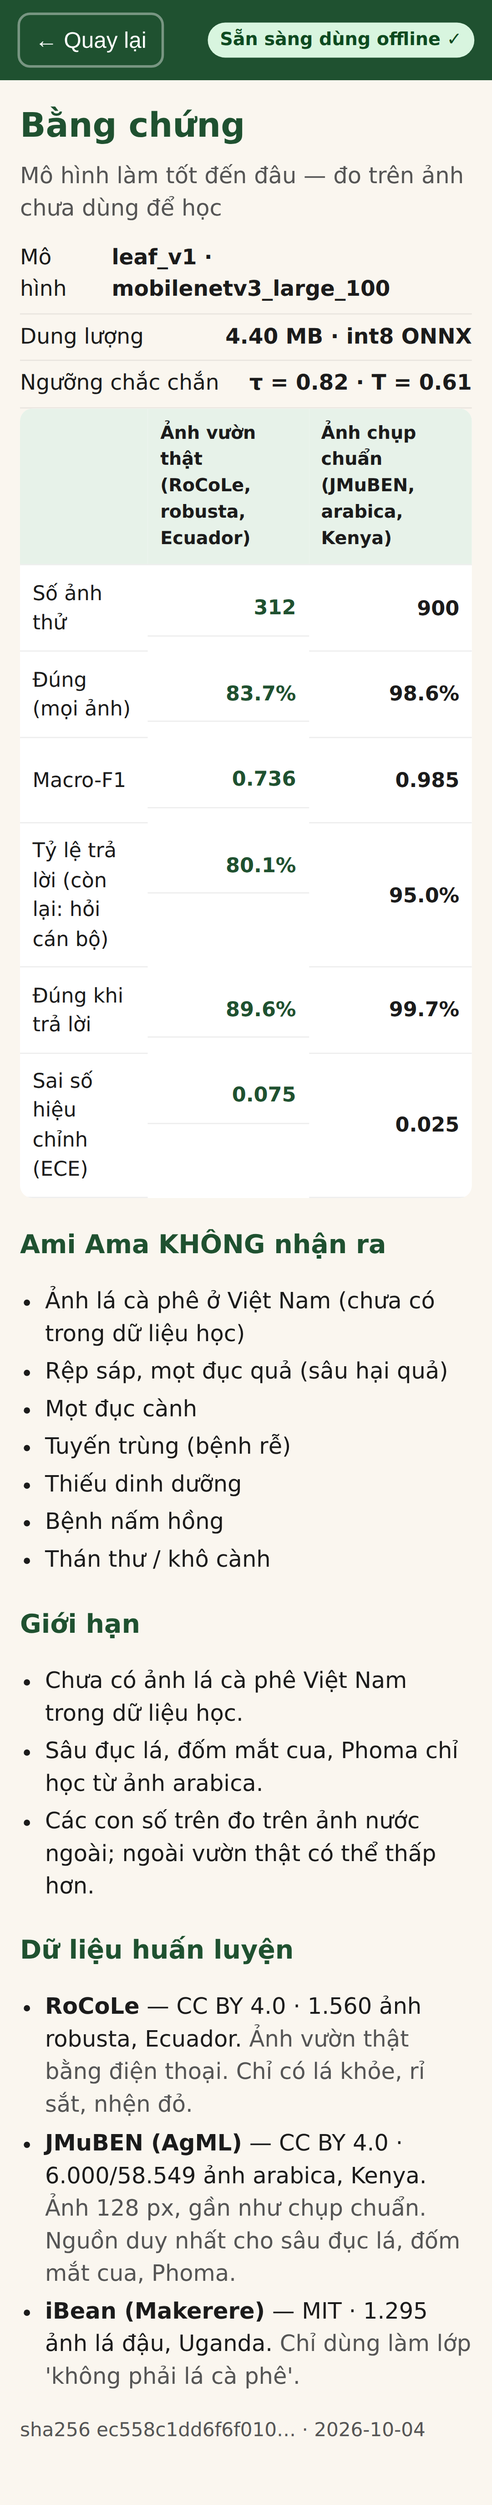
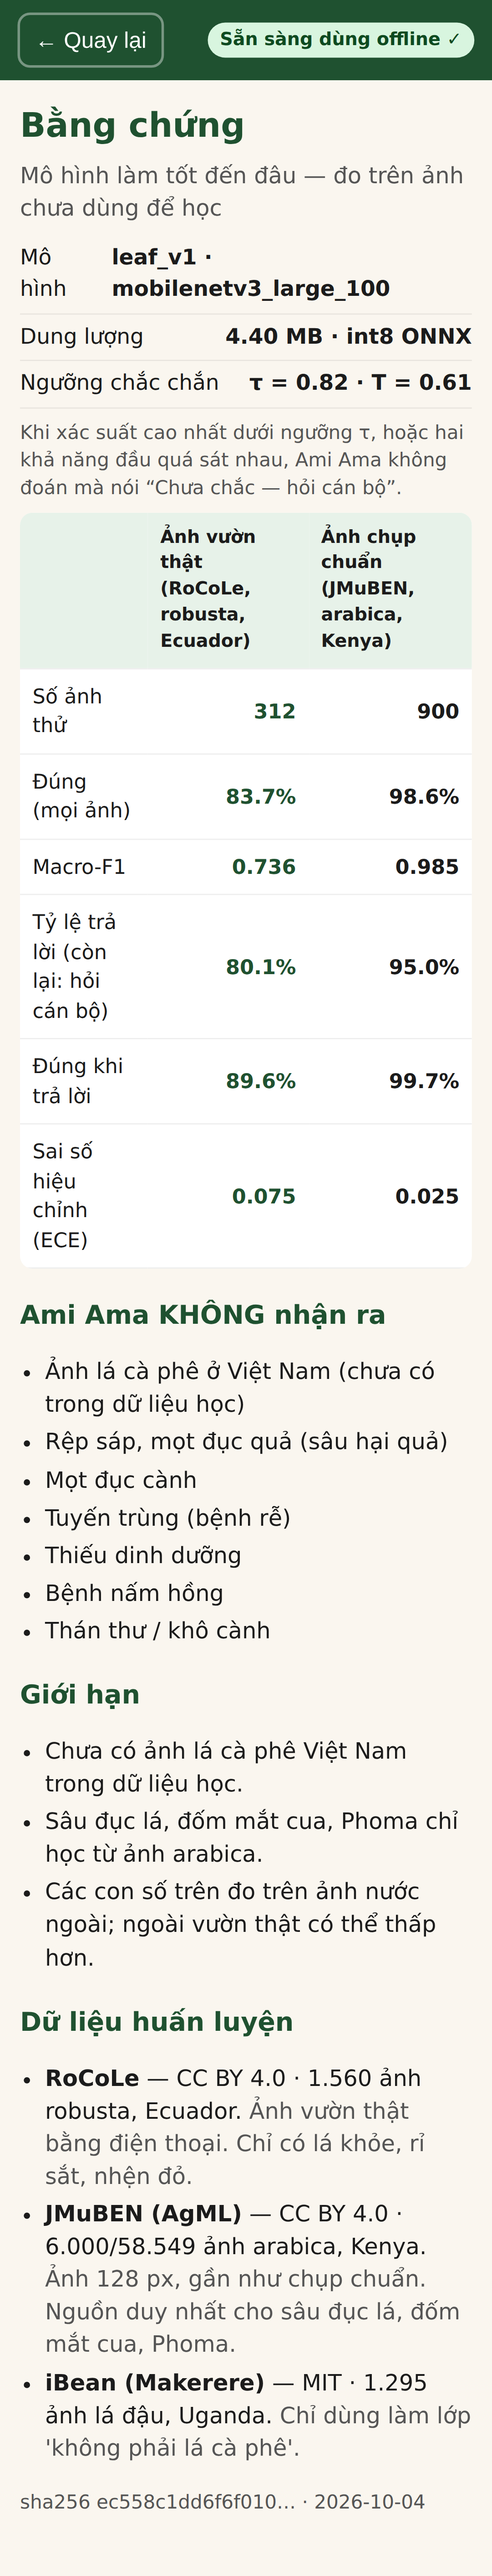
M6: Evidence table alignment + abstain-rule line, README screenshot strip, verified per-epoch resume (clear error on schedule mismatch)
Claude-Session: https://claude.ai/code/session_01WtXdzrNTSQJShH6jfLbNAi

diff --git a/src/screens/Evidence.tsx b/src/screens/Evidence.tsx
@@ -39,6 +39,7 @@ export default function Evidence() {
         <div><span>{t('ev_size')}</span><b>{(card.size_bytes / 1e6).toFixed(2)} MB · int8 ONNX</b></div>
         <div><span>{t('ev_tau')}</span><b>τ = {card.tau.toFixed(2)} · T = {card.temperature.toFixed(2)}</b></div>
       </div>
+      <p className="muted small">{t('ev_rule')}</p>
       <table className="mtable" data-testid="metrics">
         <thead>
           <tr>
@@ -51,7 +52,7 @@ export default function Evidence() {
           {rows.map(([k, fn]) => (
             <tr key={k}>
               <td>{t(k)}</td>
-              <td className="num field">{fn(f)}</td>
+              <td className="num fieldcol">{fn(f)}</td>
               <td className="num">{fn(s)}</td>
             </tr>
           ))}

diff --git a/src/styles.css b/src/styles.css
@@ -119,7 +119,7 @@ summary { cursor: pointer; min-height: 32px; font-weight: 600; }
 .mtable th { font-size: 0.8rem; background: var(--leaf); }
 .mtable td { font-size: 0.9rem; }
 .num { text-align: right !important; font-variant-numeric: tabular-nums; font-weight: 600; }
-.mtable .field { color: var(--green); }
+.mtable .fieldcol { color: var(--green); }
 .diff { font-size: 1.15rem; font-weight: 700; padding: 10px; border-radius: 10px; }
 .diff.lower { background: var(--warn-bg); color: var(--warn); }
 .diff.higher { background: #d8f5df; color: #0d4a20; }

diff --git a/ml/train.py b/ml/train.py
@@ -160,6 +160,8 @@ def main():
     log, best, bad, t0, start = [], -1.0, 0, time.time(), 0
     if a.resume and (CKPT / "last.pt").exists():
         st = torch.load(CKPT / "last.pt", map_location=DEV, weights_only=False)
+        if st["scheduler"]["total_steps"] != steps:
+            raise SystemExit("--resume needs the same --epochs/--bs/data as the interrupted run (LR schedule length differs)")
         model.load_state_dict(st["state_dict"])
         opt.load_state_dict(st["optimizer"])
         sched.load_state_dict(st["scheduler"])
